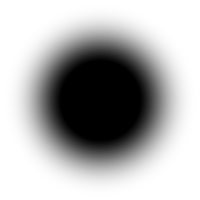
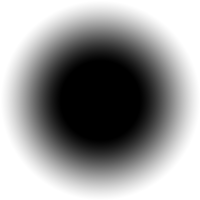
修改背景图切换细节

diff --git a/web/frontEnd/develop/public/css/main.less b/web/frontEnd/develop/public/css/main.less
@@ -233,8 +233,8 @@ a,a:active{
 		-webkit-animation-timing-function: ease-in
 	}
 
-	80% {
-		opacity: 1;
+	40% {
+		opacity: .6;
 		-webkit-mask-size: 60%;
 		-webkit-animation-timing-function: ease-in
 	}
@@ -266,8 +266,6 @@ a,a:active{
 		color: #333;
 		&:hover{
 			background: #fafafa;
-		}
-		&.active{
 		}
 	}
 }

diff --git a/web/frontEnd/develop/public/css/main.css b/web/frontEnd/develop/public/css/main.css
@@ -4668,8 +4668,8 @@ a:active {
     -webkit-mask-size: 30%;
     -webkit-animation-timing-function: ease-in;
   }
-  80% {
-    opacity: 1;
+  40% {
+    opacity: .6;
     -webkit-mask-size: 60%;
     -webkit-animation-timing-function: ease-in;
   }
